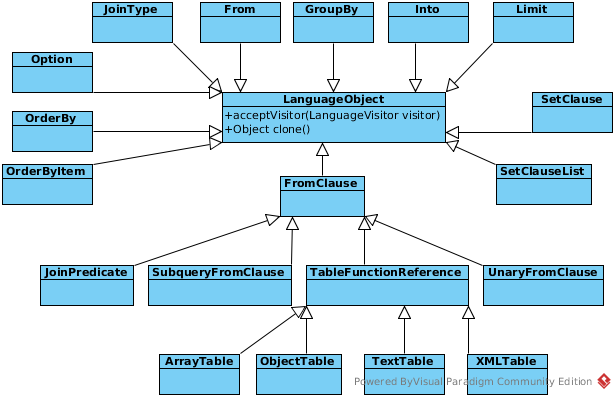
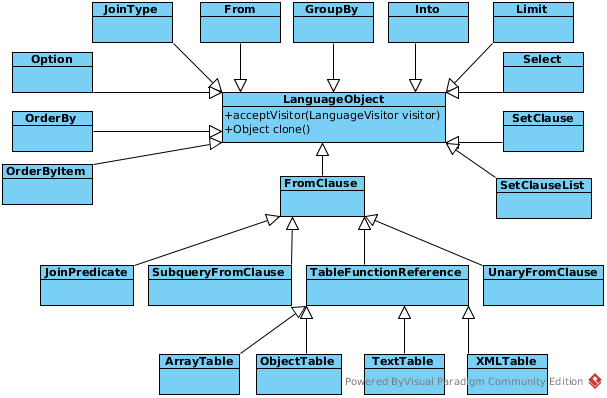
update teiid engine post

diff --git a/_posts/2015-11-30-teiid-query-sql-api.md b/_posts/2015-11-30-teiid-query-sql-api.md
@@ -25,6 +25,51 @@ A Command is an interface for all the language objects that are at the root of a
 
 ![UML of LanguageObject]({{ site.baseurl }}/assets/blog/teiid-uml-sql-other.png)
 
+* `From` - Represents a FROM clause in a SELECT query. The from clause holds a set of FROM subclauses. Each FROM subclause can be either a single group `UnaryFromClause` or a join predicate `JoinPredicate`
+* `FromClause` - A FromClause is an interface for subparts held in a FROM clause. One type of FromClause is `UnaryFromClause`, which is the more common use and represents a single group.  Another, less common type of FromClause is the `JoinPredicate` which represents a join between two FromClauses and may contain criteria.
+* `org.teiid.query.sql.lang.Select` - represents the SELECT clause of a query, which defines what elements or expressions are returned from the query.
+
+**Example of Select**
+
+~~~java
+ElementSymbol id = new ElementSymbol("Accounts.PRODUCT.ID");
+id.setType(DataTypeManager.DefaultDataClasses.STRING);
+ElementSymbol symbol = new ElementSymbol("Accounts.PRODUCT.SYMBOL");
+symbol.setType(DataTypeManager.DefaultDataClasses.STRING);
+ElementSymbol name = new ElementSymbol("Accounts.PRODUCT.COMPANY_NAME");
+symbol.setType(DataTypeManager.DefaultDataClasses.STRING);
+
+Select select = new Select();
+select.addSymbol(id);
+select.addSymbol(symbol);
+select.addSymbol(name);
+~~~
+
+## Symbol
+
+![UML of Symbol]({{ site.baseurl }}/assets/blog/teiid-uml-symbol.png)
+
+* `org.teiid.query.sql.symbol.Symbol` - This is the server's representation of a metadata symbol. The only thing a symbol has to have is a name. This name relates only to how a symbol is specified in a user's query and does not necessarily relate to any actual metadata identifier (although it may). Subclasses of this class provide specialized instances of symbol for various circumstances in a user's query. In the context of a single query, a symbol's name has a unique meaning although it may be used more than once in some circumstances.
+* `org.teiid.query.sql.symbol.GroupSymbol` - This is the server's representation of a metadata group symbol. The group symbol has a name, an optional definition, and a reference to a real metadata ID. Typically, a GroupSymbol will be created only from a name and possibly a definition if the group has an alias.  The metadata ID is discovered only when resolving the query.
+* `org.teiid.query.sql.symbol.ElementSymbol` - This is a subclass of Symbol representing a single element.  An ElementSymbol also is an expression and thus has a type.  Element symbols have a variety of attributes that determine how they are displayed - a flag for displaying fully qualified and an optional vdb name.
+
+**Example of GroupSymbol**
+
+~~~java
+GroupSymbol group = new GroupSymbol("Accounts.PRODUCT", "p");
+assertEquals("Accounts", group.getSchema());
+assertEquals("PRODUCT", group.getShortName());
+assertEquals("Accounts.PRODUCT", group.getName());
+assertEquals("p AS \"Accounts.PRODUCT\"", group.toString());
+~~~
+
+**Example of ElementSymbol**
+
+~~~java
+ElementSymbol id = new ElementSymbol("Test.PRODUCTView.product_id", true);
+id.setType(DataTypeManager.DefaultDataClasses.INTEGER);
+~~~
+
 ## ProcessorPlan
 
 ![UML of ProcessorPlan]({{ site.baseurl }}/assets/blog/teiid-uml-processorPlan.png)

diff --git a/_posts/2015-05-25-teiid-dqp.md b/_posts/2015-05-25-teiid-dqp.md
@@ -101,7 +101,47 @@ SELECT Accounts.PRODUCT.ID, Accounts.PRODUCT.SYMBOL, Accounts.PRODUCT.COMPANY_NA
 
 **5. Optimizing** - the rewritten canonical SQL is converted into a logical plan for in-depth optimization.
 
+* `org.teiid.query.optimizer.QueryOptimizer` produces a ProcessorPlan object (a plan for query execution) from a user's command and a source of metadata.
+* `org.teiid.query.optimizer.relational.RelationalPlanner` generates a relational plan for query execution. The output of this class is a `PlanNode`(refer to below **PlanNode** for details) - this object then becomes the input to `PlanToProcessConverter` to to  produce a `RelationalPlan`, more details refer to below sequence diagram.
+
 ![generate ProcessorPlan]({{ site.baseurl }}/assets/blog/teiid-seq-generatePlan.png)
+
+### PlanNode
+
+PlanNode come from SQL Command, this Object be convert to ProcessorPlan([UML diagram](http://ksoong.org/teiid-uml-diagram/#orgteiidqueryprocessorprocessorplan)) via a PlanToProcessConverter, eg:
+
+~~~java
+PlanToProcessConverter planToProcessConverter = new PlanToProcessConverter(metadata, idGenerator, analysisRecord, capFinder, context);
+PlanNode plan = generatePlan(command);
+RelationalPlan result = planToProcessConverter.convert(plan);
+~~~
+
+Once a SQL command be Resolving, Validating and Rewriting, this command will be converted into logical plan, the Process of forming PlanNode:
+
+**1. Generate canonical plan**
+
+The first step is generate canonical plan, assuming Query Command like `SELECT Accounts.PRODUCT.ID, Accounts.PRODUCT.SYMBOL, Accounts.PRODUCT.COMPANY_NAME FROM Accounts.PRODUCT`, the relevant Canonical Plan as
+
+~~~java
+Project(groups=[Accounts.PRODUCT], props={PROJECT_COLS=[Accounts.PRODUCT.ID, Accounts.PRODUCT.SYMBOL, Accounts.PRODUCT.COMPANY_NAME]})
+  Source(groups=[Accounts.PRODUCT])
+~~~
+
+If Show Plan and Debug level logging be enabled, Generate canonical plan log can be found as
+
+~~~java
+----------------------------------------------------------------------------
+GENERATE CANONICAL: 
+SELECT Accounts.PRODUCT.ID, Accounts.PRODUCT.SYMBOL, Accounts.PRODUCT.COMPANY_NAME FROM Accounts.PRODUCT
+
+CANONICAL PLAN: 
+Project(groups=[Accounts.PRODUCT], props={PROJECT_COLS=[Accounts.PRODUCT.ID, Accounts.PRODUCT.SYMBOL, Accounts.PRODUCT.COMPANY_NAME]})
+  Source(groups=[Accounts.PRODUCT])
+~~~
+
+**2. rule-based optimizer**
+
+* RuleStack - A stack which contain a series of Rules,
 
 ## RequestWorkItem run
 

diff --git a/_posts/2015-05-22-teiid-uml-diagram.md b/_posts/2015-05-22-teiid-uml-diagram.md
@@ -77,6 +77,24 @@ Refer to [link](http://ksoong.org/teiid-query-sql-api/)
 * RequestWorkItem - Compiles results and other information for the client.  There is quite a bit of logic surrounding forming batches to prevent buffer growth, send multiple batches at a time, partial batches, etc.  There is also special handling for the update count case, which needs to read the entire result before sending it back to the client.
 * AbstractWorkItem - Represents a task that performs work that may take more than one processing pass to complete. During processing the WorkItem may receive events asynchronously through the moreWork method.
 
+### org.teiid.dqp.internal.process.Request
+
+![Request UML]({{ site.baseurl }}/assets/blog/teiid-dqp-process-request.png)
+
+### org.teiid.query.util.CommandContext
+
+![org.teiid.query.util.CommandContext]({{ site.baseurl }}/assets/blog/teiid-uml-commandcontext.png)
+
+* CommandContext defines the context that a command is processing in.  For example, this defines who is processing the command and why. Also, this class (or subclasses) provide a means to pass context-specific information between users of the query processor framework.
+
+### org.teiid.query.processor.relational.AccessNode
+
+![AccessNode]({{ site.baseurl }}/assets/blog/teiid-uml-AccessNode.png)
+
+### org.teiid.query.optimizer.relational.OptimizerRule
+
+![OptimizerRule]({{ site.baseurl }}/assets/blog/teiid-uml-OptimizerRule.png)
+
 ### org.teiid.dqp.internal.process.ThreadReuseExecutor
 
 ![ThreadReuseExecutor]({{ site.baseurl }}/assets/blog/teiid-threadreuseexecutor.png)
